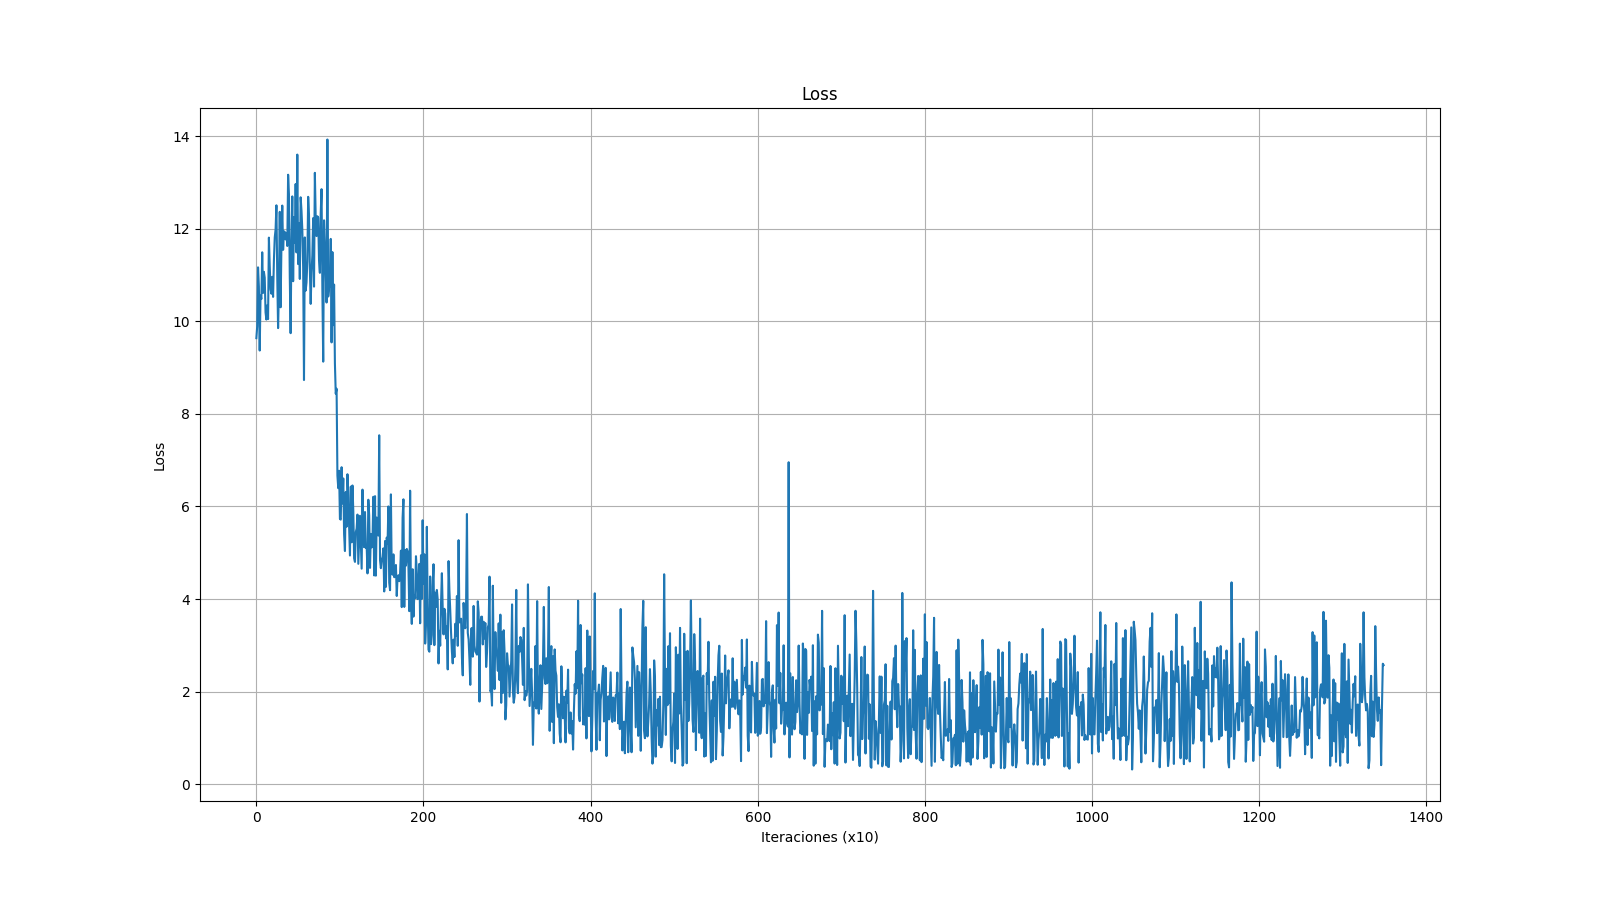
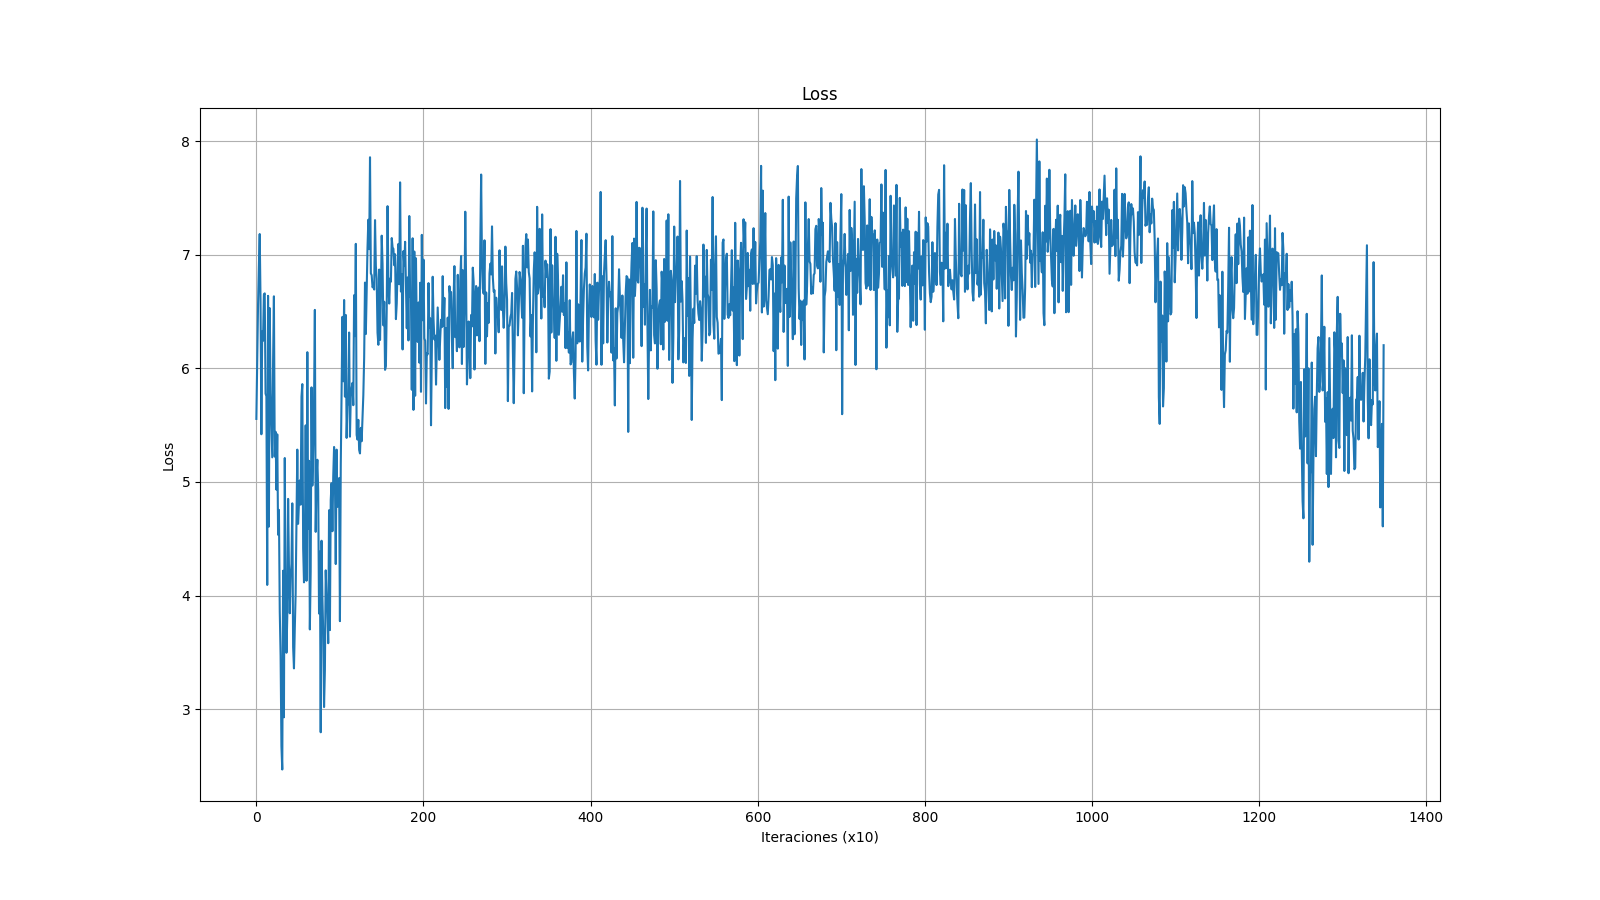
Pruebas con multinomial y softmax

Changed region(s): [[0.1562, 0.1556, 0.875, 0.8711], [0.0938, 0.4978, 0.125, 0.5289]]

diff --git a/RUN/train.py b/RUN/train.py
@@ -36,44 +36,45 @@ from utils import nuevo_get_rates
 from utils import graphs_to_tensor_synthetic
 
 
-def run(building_id=800, b5g=False, num_channels=5, num_layers=5, K=3, batch_size=64, epocs=100, eps=5e-5, mu_lr=1e-4, synthetic=1, rn=100, rn1=100):   
+def run(building_id=990, b5g=False, num_links=5, num_layers=5, K=3, batch_size=64, epocs=100, eps=5e-5, mu_lr=1e-4, synthetic=1, rn=100, rn1=100):   
 
     banda = ['2_4', '5']
     eps_str = str(f"{eps:.0e}")
     mu_lr_str= str(f"{mu_lr:.0e}")
 
     if synthetic:
-        x_tensor, channel_matrix_tensor = graphs_to_tensor_synthetic(num_channels,num_features=1, b5g=b5g, building_id=building_id)
+        x_tensor, channel_matrix_tensor = graphs_to_tensor_synthetic(num_channels=num_links,num_features=1, b5g=b5g, building_id=building_id)
         dataset = get_gnn_inputs(x_tensor, channel_matrix_tensor)
         dataloader = DataLoader(dataset[:7000], batch_size=batch_size, shuffle=True, drop_last=True)
     else:
-        x_tensor, channel_matrix_tensor = graphs_to_tensor(train=True, num_channels=num_channels, num_features=1, b5g=b5g, building_id=building_id)
+        x_tensor, channel_matrix_tensor = graphs_to_tensor(train=True, num_channels=num_links, num_features=1, b5g=b5g, building_id=building_id)
         dataset = get_gnn_inputs(x_tensor, channel_matrix_tensor)
         dataloader = DataLoader(dataset, batch_size=batch_size, shuffle=True, drop_last=True)
 
     mu_k = torch.ones((1,1), requires_grad = False)
     epocs = epocs
 
-    pmax = num_channels
+    pmax = num_links
     p0 = 4
 
     sigma = 1e-4
 
     input_dim = 1
     hidden_dim = 1
-    output_dim = 1
+    output_dim = 4 # off ,ch1, ch2, ch3
     num_layers = num_layers
     dropout = False
     K = K
+    num_channels = 3 #ch1, ch2, ch3
 
     gnn_model = GNN(input_dim, hidden_dim, output_dim, num_layers, dropout, K)
 
     optimizer = optim.Adam(gnn_model.parameters(), lr= mu_lr)
 
-    for name, param in gnn_model.named_parameters():
-        param.requires_grad = True
-        if param.requires_grad:
-            print(name, param.data)
+    # for name, param in gnn_model.named_parameters():
+    #     param.requires_grad = True
+    #     if param.requires_grad:
+    #         print(name, param.data)
 
     objective_function_values = []
     power_constraint_values = []
@@ -87,52 +88,43 @@ def run(building_id=800, b5g=False, num_channels=5, num_layers=5, K=3, batch_siz
         for batch_idx, data in enumerate(dataloader):
             
             channel_matrix_batch = data.matrix
-            channel_matrix_batch = channel_matrix_batch.view(batch_size, num_channels, num_channels)
+            channel_matrix_batch = channel_matrix_batch.view(batch_size, num_links, num_links) # [64, 5, 5]
 
-            psi = gnn_model.forward(data.x, data.edge_index, data.edge_attr)
-            psi = psi.squeeze(-1)
-            psi = psi.view(batch_size, -1)
-            psi = psi.unsqueeze(-1)
-            
-            # normalized_psi = (torch.tanh(psi)*(0.99 - 0.01) + 1)/2
-            # normalized_psi_values.append(normalized_psi[0,:,:].squeeze(-1).detach().numpy())
-            # normalized_phi = torch.bernoulli(normalized_psi)
-            # log_p = normalized_phi * torch.log(normalized_psi) + (1 - normalized_phi) * torch.log(1 - normalized_psi)
-            # log_p_sum = torch.sum(log_p, dim=1)
-            # phi = normalized_phi * p0
+            psi = gnn_model.forward(data.x, data.edge_index, data.edge_attr) #[320, 4] (64x5,4)
+            psi = psi.view(batch_size, num_links, output_dim) #[64, 5, 4]
 
-
-            probs = torch.softmax(psi.squeeze(-1), dim=1)  # [batch_size, num_channels]
+            probs = torch.softmax(psi, dim=2)  #Rescales them so that the elements of the n-dimensional output Tensor lie in the range [0,1] and sum to 1.
+            # [64, 5, 4]
             normalized_psi_values.append(probs[0, :].detach().numpy())
-
             # --- NUEVO: solo un canal activo por transmisor ---
-            selected_idx = torch.multinomial(probs, num_samples=1)  # [batch_size, 1]
-            normalized_phi = torch.zeros_like(probs)
+            selected_idx = torch.multinomial(probs.view(-1, output_dim), num_samples=1) 
+            normalized_phi = torch.zeros_like(probs).view(-1, output_dim)
             normalized_phi.scatter_(1, selected_idx, 1)
-            normalized_phi = normalized_phi.unsqueeze(-1)  # [batch_size, num_channels, 1]
+            normalized_phi = normalized_phi.view(batch_size, num_links, output_dim)
             # -----------------------------------------------
 
-            log_p = normalized_phi.squeeze(-1) * torch.log(probs + 1e-10)  # Evitar log(0)
+            log_p = normalized_phi * torch.log(probs + 1e-10)  # Evitar log(0)
             log_p_sum = torch.sum(log_p, dim=1)
             phi = normalized_phi * p0
 
-
             power_constr = power_constraint(phi, pmax)
-            power_constr_mean = torch.mean(power_constr, dim = 0)
-
+            power_constr_mean = torch.mean(power_constr, dim = 0) # [5, 1]
+            
             # rates = get_rates(phi, channel_matrix_batch, sigma)
             rates = nuevo_get_rates(phi, channel_matrix_batch, sigma, p0=p0)
+
+            print(rates.shape)  # [64, 5]
 
             sum_rate = objective_function(rates)
 
             sum_rate_mean = torch.mean(sum_rate, dim = 0)
 
             mu_k = mu_update(mu_k, power_constr, eps)
-
+            
             cost = sum_rate + (power_constr * mu_k)
 
             loss = cost * log_p_sum
-            loss_mean = torch.mean(loss, dim = 0)
+            loss_mean = torch.mean(loss)
 
             loss_mean.backward()
             optimizer.step()
@@ -194,7 +186,7 @@ if __name__ == '__main__':
 
     parser.add_argument('--building_id', type=int, default=990)
     parser.add_argument('--b5g', type=int, default=0)
-    parser.add_argument('--num_channels', type=int, default=5)
+    parser.add_argument('--num_links', type=int, default=5)
     parser.add_argument('--num_layers', type=int, default=5)
     parser.add_argument('--k', type=int, default=3)
     parser.add_argument('--epocs', type=int, default=150)
@@ -207,7 +199,7 @@ if __name__ == '__main__':
     
     print(f'building_id: {args.building_id}')
     print(f'b5g: {args.b5g}')
-    print(f'num_channels: {args.num_channels}')
+    print(f'num_links: {args.num_links}')
     print(f'num_layers: {args.num_layers}')
     print(f'k: {args.k}')
     print(f'epocs: {args.epocs}')
@@ -216,5 +208,5 @@ if __name__ == '__main__':
     print(f'mu_lr: {args.mu_lr}')
     print(f'synthetic: {args.synthetic}')
     
-    run(building_id=args.building_id, b5g=args.b5g, num_channels=args.num_channels, num_layers=args.num_layers, K=args.k, batch_size=args.batch_size, epocs=args.epocs, eps=args.eps, mu_lr=args.mu_lr, synthetic=args.synthetic, rn=rn, rn1=rn1)
+    run(building_id=args.building_id, b5g=args.b5g, num_links=args.num_links, num_layers=args.num_layers, K=args.k, batch_size=args.batch_size, epocs=args.epocs, eps=args.eps, mu_lr=args.mu_lr, synthetic=args.synthetic, rn=rn, rn1=rn1)
     print('Seeds: {} and {}'.format(rn, rn1))

diff --git a/RUN/utils.py b/RUN/utils.py
@@ -178,12 +178,6 @@ def power_constraint(phi, pmax):
     sum_phi = torch.sum(phi, dim=1)
     return (sum_phi - pmax)
 
-# LO QUE AGREGAMOS NOSOTROS
-# def channel_constraint(phi, p0):
-#     #phi recibe phi*p0
-#     sum_phi = torch.sum(phi, dim=1)
-#     return (sum_phi - p0)
-
 def mu_update(mu_k, power_constr, eps):
     mu_k = mu_k.detach()
     mu_k_update = eps * torch.mean(power_constr, dim = 0)
@@ -199,25 +193,10 @@ def get_rates(phi, channel_matrix_batch, sigma):
     rates = torch.log(numerator / denominator + 1)
     return rates
 
-#LO QUE AGREGAMOS NOSOTROS
-# def nuevo_get_rates(phi, channel_matrix_batch, sigma, p0=4):
-#     phi = torch.squeeze(phi, dim = 2)
-#     numerator = torch.unsqueeze(torch.diagonal(channel_matrix_batch, dim1=1, dim2=2) * phi, dim=2)
-#     expanded_phi = phi.unsqueeze(2)
-#     denominator = (torch.matmul(channel_matrix_batch.float(), expanded_phi.float()) - numerator)*phi.unsqueeze(2)/p0 + sigma
-#     rates = torch.log(numerator / denominator + 1)
-#     return rates
-
-
 def nuevo_get_rates(phi, channel_matrix_batch, sigma, p0=4):
-    phi = torch.squeeze(phi, dim = 2) #(64,5,1)
+    # phi = torch.squeeze(phi, dim = 2) #(64,5,4) , channel_matrix_batch (64,5,5)
     numerator = torch.unsqueeze(torch.diagonal(channel_matrix_batch, dim1=1, dim2=2) * phi, dim=2)
     expanded_phi = phi.unsqueeze(2)
     denominator = (torch.matmul(channel_matrix_batch.float(), expanded_phi.float()) - numerator)*expanded_phi/p0 + sigma
     rates = torch.log(numerator / denominator + 1)
     return rates
-
-
-# $$
-# r_i = \mathbb{E} \left[ \log \left( 1 + \frac{ |h_{ii}|^2 p_i(\mathbf{H}) }{ \sigma^2 + \sum_{j \neq i} |h_{ji}|^2 p_j(\mathbf{H}) \cdot \frac{p_i(\mathbf{H})}{p_0} } \right) \right],
-# $$

diff --git a/RUN/plot_results_torch.py b/RUN/plot_results_torch.py
@@ -140,18 +140,6 @@ def plot_results(building_id, b5g, normalized_psi, normalized_psi_values=[], num
         plt.savefig(image_path)
         plt.close()
 
-    if channel_constraint_values is not None:
-        plt.figure(figsize=(16,9))
-        plt.plot(channel_constraint_values)
-        plt.title('Channel Constraint')
-        plt.xlabel('Iteración')
-        plt.ylabel('Restricción de canal')
-        plt.grid()
-        image_name = 'channel_constrain.png'
-        image_path = os.path.join(path, image_name)
-        plt.savefig(image_path)
-        plt.close()
-
 
     normalized_psi= torch.mean(normalized_psi, dim=0)
     normalized_psi_array = normalized_psi.detach().numpy()
